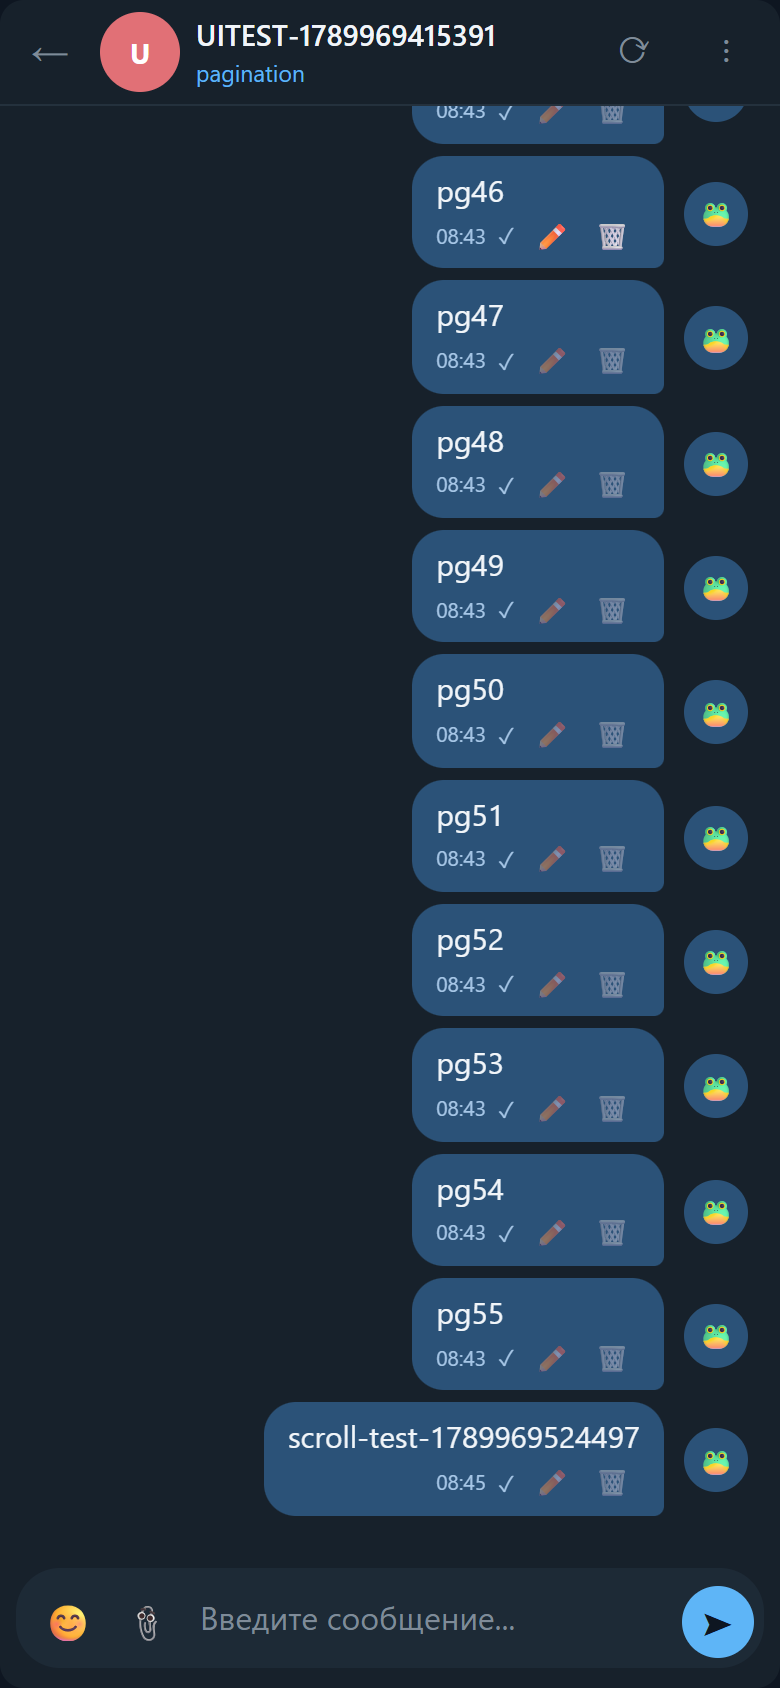
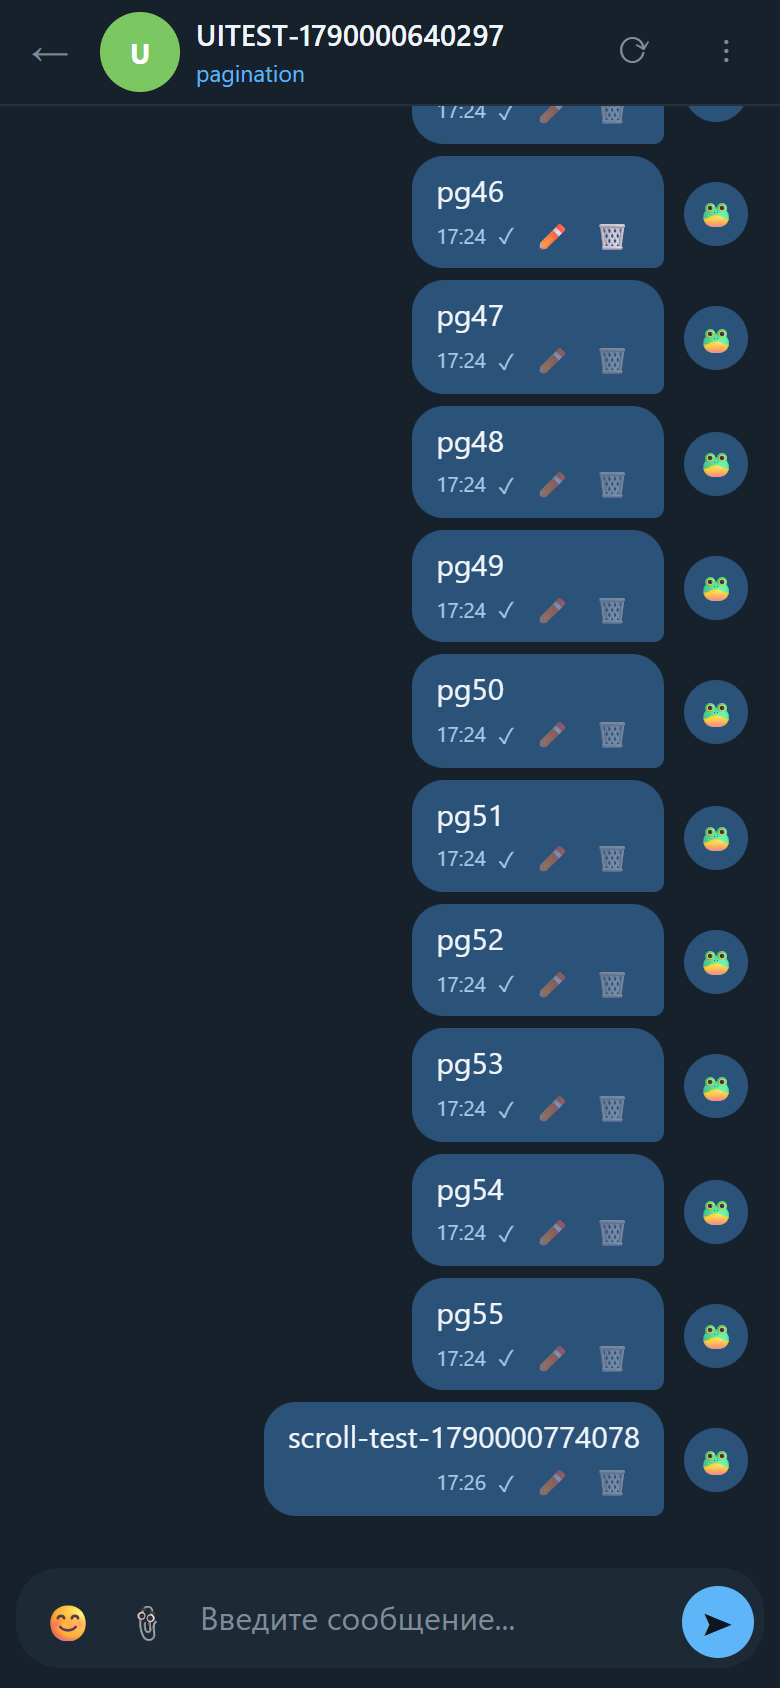
fix(ui): visible list buttons, robust mobile scroll
- DM button labelled (envelope + text), refresh glyph bolder, all list-row buttons 38px with visible background
- mobile panes rebuilt on normal flex flow instead of position:absolute (likely cause of stuck scrolling on real phones)
- disable page-level pull-to-refresh (html overscroll-behavior-y:contain)
- mobile_chrome_check extended to 17 checks incl. touch swipes on list and chat
- ui_test 69/69, admin_audit 62/62, spa_actions 20/20, scroll_check 19/19, RPi probe 31/31

diff --git a/server/app/static/app.css b/server/app/static/app.css
@@ -6,6 +6,7 @@
   --radius:12px;--shadow:0 18px 40px rgba(0,0,0,.45);
 }
 html,body{height:100%}
+html{overscroll-behavior-y:contain}
 body{font-family:-apple-system,BlinkMacSystemFont,'Segoe UI',Roboto,Oxygen,Ubuntu,sans-serif;background:var(--bg);color:var(--text);min-height:100vh;line-height:1.5}
 a{color:var(--accent);text-decoration:none}
 a:hover{text-decoration:underline}
@@ -385,14 +386,17 @@ body.chat-mode{overflow:hidden;overscroll-behavior:none}
   .chat-side-head{padding:6px 8px 8px}
   .chat-top{display:flex;align-items:center;gap:6px}
   .chat-top .chat-search{flex:1;min-width:0}
-  .chat-top .mini{width:34px;height:34px;font-size:16px}
+  .chat-top .mini{width:38px;height:38px;font-size:19px;background:var(--bg3);color:var(--text)}
+  .chat-top .mini:hover,.chat-top .mini:active{background:var(--hover);color:var(--accent)}
+  .chat-top .mini-pill{width:auto;padding:0 13px;border-radius:19px;display:flex;align-items:center;gap:6px;font-size:17px}
+  .chat-top .mini-pill .mi-lbl{font-size:12.5px;font-weight:600;line-height:1}
   .chead{padding:6px 8px;gap:8px}
   .chead .t2{font-size:11.5px}
 
-  /* chat: list and pane are separate screens */
-  .chat-layout{gap:0;display:block;position:relative;flex:1;min-height:0}
-  .chat-side{position:absolute;inset:0;width:auto;height:auto;border-radius:12px;animation:paneInLeft .3s cubic-bezier(.2,.8,.25,1)}
-  .chat-pane{position:absolute;inset:0;height:auto;border-radius:12px;display:none;animation:paneInRight .3s cubic-bezier(.2,.8,.25,1)}
+  /* chat: list and pane are separate screens (normal flex flow, no absolute) */
+  .chat-layout{gap:0;display:flex;flex-direction:column;flex:1;min-height:0}
+  .chat-side{flex:1 1 auto;min-height:0;width:auto;display:none;animation:paneInLeft .3s cubic-bezier(.2,.8,.25,1)}
+  .chat-pane{flex:1 1 auto;min-height:0;display:none;animation:paneInRight .3s cubic-bezier(.2,.8,.25,1)}
   .chat-layout.show-list .chat-side{display:flex}
   .chat-layout.show-list .chat-pane{display:none}
   .chat-layout:not(.show-list) .chat-side{display:none}
@@ -414,4 +418,9 @@ body.chat-mode{overflow:hidden;overscroll-behavior:none}
   table{font-size:11px}
   td,th{padding:4px 6px}
   #profile-modal > div{margin:8px;max-height:90vh;overflow-y:auto}
+}
+
+@media(max-width:365px){
+  .chat-top .mini-pill .mi-lbl{display:none}
+  .chat-top .mini-pill{width:38px;padding:0;justify-content:center}
 }

diff --git a/server/app/static/app.js b/server/app/static/app.js
@@ -476,11 +476,11 @@ async function renderChat() {
         <div class="chat-side-head">
           <div class="chat-side-title only-desktop"><span>${t('chat')}</span><button class="mini" id="chat-refresh" title="${t('refresh')}">⟳</button></div>
           <div class="chat-top">
-            <button class="mini only-mobile" id="chat-menu-btn">☰</button>
+            <button class="mini only-mobile" id="chat-menu-btn" title="${t('menu')}" aria-label="${t('menu')}">☰</button>
             <div class="chat-search">🔎<input id="chat-search-input" placeholder="${t('search_user')}"></div>
-            <button class="mini only-mobile" id="chat-dm-btn" title="${t('dm')}">✉</button>
-            <button class="mini only-mobile" id="chat-refresh-m" title="${t('refresh')}">⟳</button>
-            <button class="mini only-mobile" id="chat-new-btn" title="${t('new_chat')}">＋</button>
+            <button class="mini only-mobile mini-pill" id="chat-dm-btn" title="${t('dm')}" aria-label="${t('dm')}"><span class="mi-ico">✉</span><span class="mi-lbl">${t('dm')}</span></button>
+            <button class="mini only-mobile" id="chat-refresh-m" title="${t('refresh')}" aria-label="${t('refresh')}">↻</button>
+            <button class="mini only-mobile" id="chat-new-btn" title="${t('new_chat')}" aria-label="${t('new_chat')}">＋</button>
           </div>
         </div>
         <div id="chat-list" class="chat-list"><div class="loading"><div class="spinner"></div></div></div>
@@ -2148,6 +2148,7 @@ var T = {
 "logout":{rus:"Выйти",eng:"Logout"},"send":{rus:"Отправить",eng:"Send"},
 "type_msg":{rus:"Введите сообщение...",eng:"Type a message..."},
 "new_chat":{rus:"Новый чат",eng:"New Chat"},"dm":{rus:"Личка",eng:"DM"},
+"menu":{rus:"Меню",eng:"Menu"},
 "no_chats":{rus:"Нет чатов",eng:"No chats"},
 "select_chat":{rus:"Выберите чат",eng:"Select a chat"},
 "search_user":{rus:"Поиск по логину...",eng:"Search by login..."},

diff --git a/server/app/templates/index.html b/server/app/templates/index.html
@@ -5,7 +5,7 @@
 <meta name="viewport" content="width=device-width,initial-scale=1.0,maximum-scale=1.0,user-scalable=no">
 <meta name="theme-color" content="#0e1621">
 <title>Local Chat</title>
-<link rel="stylesheet" href="/static/app.css?v=1789902000">
+<link rel="stylesheet" href="/static/app.css?v=1789902200">
 </head>
 <body>
 <div id="static-login" class="auth-wrap">
@@ -59,7 +59,7 @@
   </noscript>
 </main>
 
-<script src="/static/app.js?v=1789902000"></script>
+<script src="/static/app.js?v=1789902200"></script>
 
 <script>
 var _st = localStorage.getItem("lc_session_token");

diff --git a/FIXES_REPORT_2026-09-20.md b/FIXES_REPORT_2026-09-20.md
@@ -199,3 +199,11 @@
 - Кнопки-иконки получили общий базовый стиль `.mini` (раньше в новой строке выглядели как светлые системные квадраты).
 - **Проверено**: новый сьют `mobile_chrome_check.js` — 10/10 (шапки ≤70px, композер на месте, меню/модалка из строки списка, скролл не сломан), ui_test 69/69, scroll_check 19/19, admin_audit 62/62, spa_actions 20/20, RPi-пробник 31/31. Скриншоты: `mobile-compact-list.png`, `mobile-compact-chat.png`, `mobile-compact-menu.png`.
 - Примечание: полоска «captive portal» на самом верху — это системная/браузерная плашка телефона (страница входа в сеть), из приложения её убрать нельзя.
+
+## Дополнение 15: мобильный список чатов — заметные кнопки и надёжная прокрутка
+
+- **Кнопки в строке списка**: круглые кнопки 38px на подложке (`--bg3`), яркий цвет значка; кнопка лички теперь подписана — «✉ Личка» (на экранах уже 365px подпись скрывается, остаётся значок); значок обновления заменён на более толстый `↻`, размер 19px — раньше тонкий `⟳` 16px серого цвета было почти не видно.
+- **Прокрутка**: мобильные экраны перестроены с `position:absolute;inset:0` на обычный flex-поток — абсолютное позиционирование + `-webkit-overflow-scrolling` было главным кандидатом на «залипание» прокрутки на реальных телефонах. Дополнительно отключён pull-to-refresh на уровне страницы (`html{overscroll-behavior-y:contain}`), чтобы случайный свайп вниз не перезагружал приложение.
+- **Проверено тач-жестами** (эмуляция телефона, CDP touch): список скроллится, чат скроллится, позиция не прыгает при автоподгрузке истории, композер и шапки на местах. Сьют `mobile_chrome_check` расширен с 10 до 17 проверок (подпись кнопки, размеры, фон, тач-скролл списка и чата, стабильность позиции, модалка лички).
+- Все сьюты зелёные: mobile_chrome 17/17, ui_test 69/69, admin_audit 62/62, spa_actions 20/20, scroll_check 19/19, RPi-пробник 31/31. Версия `v=1789902200`.
+- Если на телефоне прокрутка списка всё ещё ведёт себя странно — нужно уточнить, что именно: не двигается совсем / прыгает вверх / не видно последние чаты / открывается чат вместо прокрутки.
